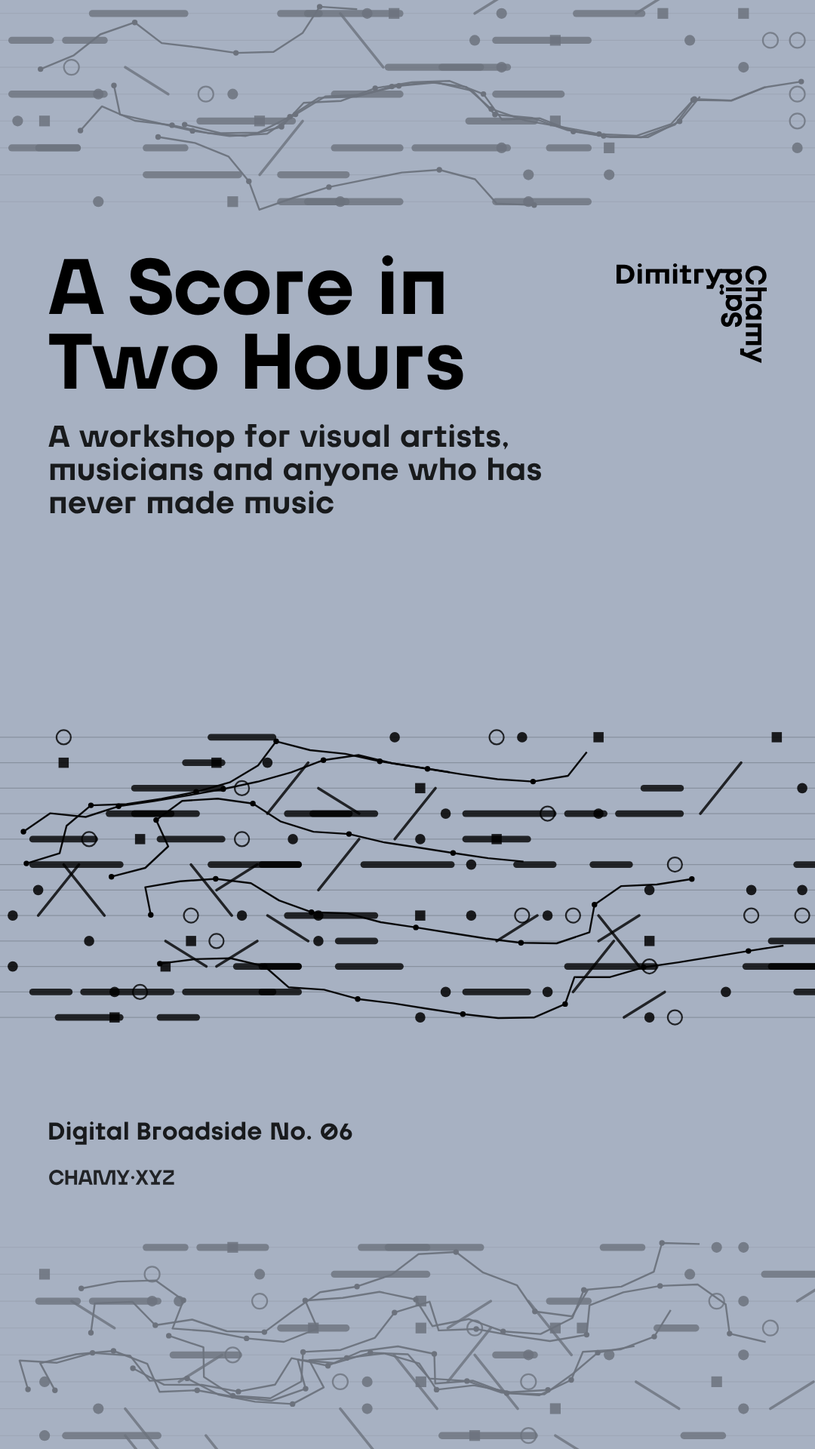
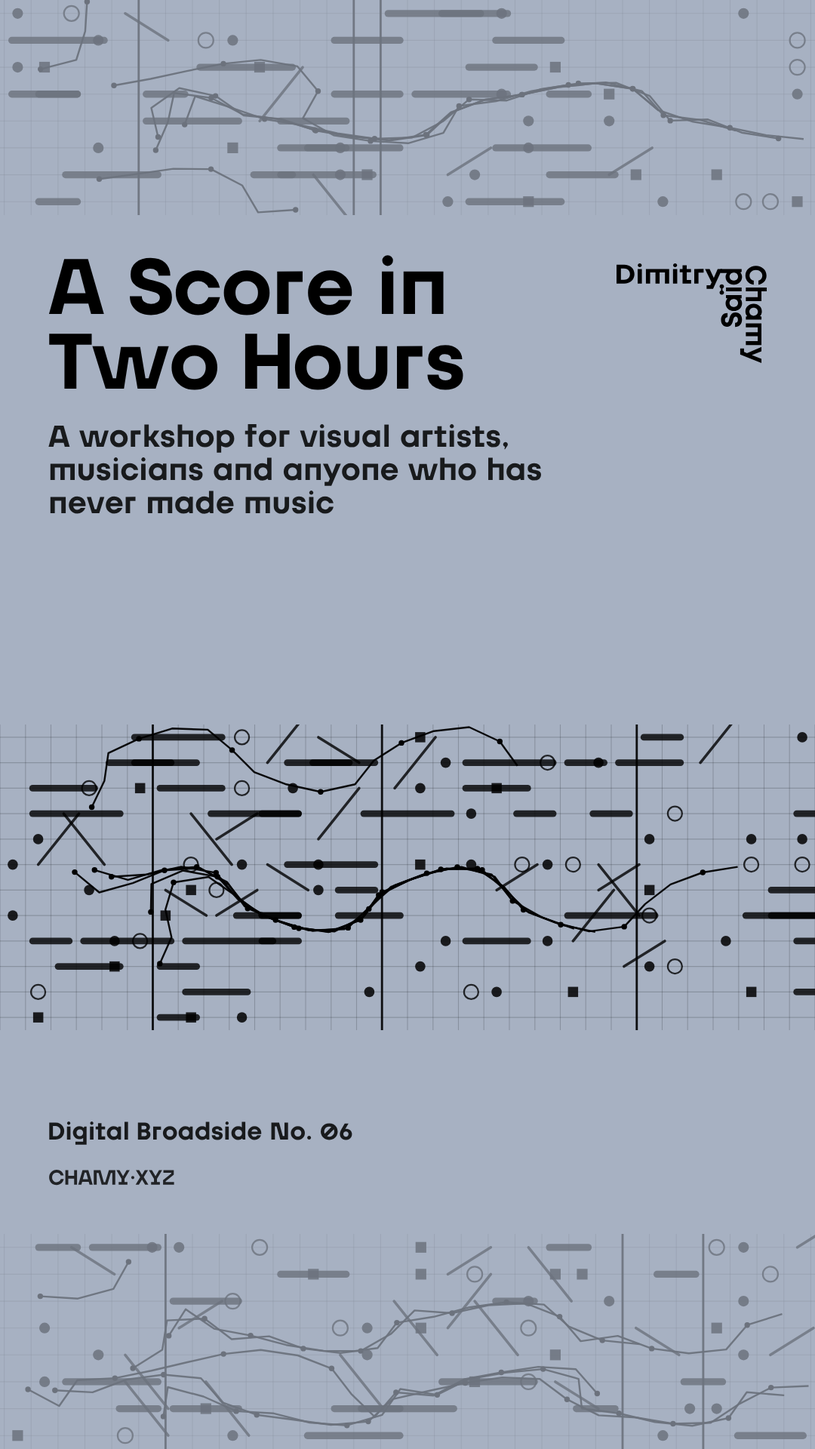
Release A Score in Two Hours v5 from 2urn/codex@3bb037c

diff --git a/score-in-two-hours/index.html b/score-in-two-hours/index.html
@@ -1,5 +1,5 @@
 <!doctype html><html><head><meta charset=utf8><meta name=viewport content="width=device-width,initial-scale=1,viewport-fit=cover"><style>:root{color-scheme:light;box-sizing:border-box;padding-top:env(safe-area-inset-top,0px);padding-bottom:env(safe-area-inset-bottom,0px)}html{scroll-padding-top:env(safe-area-inset-top,0px)}body{margin:0;padding:0;font:14px -apple-system,BlinkMacSystemFont,sans-serif;background:#fff;color:#000}img{max-width:100%}[hidden]:not([hidden=until-found i]){display:none!important}</style><title>A Score in Two Hours</title><meta name="description" content="A two-hour workshop for visual artists, musicians and people who have never made music: read a picture that plays, then make a score and play it together. Digital Broadside No. 06, with Battanboo."><link rel="canonical" href="https://works.chamy.xyz/score-in-two-hours/"><link rel="icon" type="image/png" href="./icon.png"><link rel="apple-touch-icon" href="./icon.png"><meta property="og:type" content="article"><meta property="og:site_name" content="CHAMY·XYZ"><meta property="og:title" content="A Score in Two Hours"><meta property="og:description" content="A two-hour workshop for visual artists, musicians and people who have never made music: read a picture that plays, then make a score and play it together. Digital Broadside No. 06, with Battanboo."><meta property="og:url" content="https://works.chamy.xyz/score-in-two-hours/"><meta property="og:image" content="https://works.chamy.xyz/score-in-two-hours/share.png"><meta property="og:image:width" content="1200"><meta property="og:image:height" content="630"><meta property="og:image:alt" content="A Score in Two Hours: A workshop for visual artists, musicians and anyone who has never made music"><meta name="twitter:card" content="summary_large_image"><meta name="twitter:title" content="A Score in Two Hours"><meta name="twitter:description" content="A two-hour workshop for visual artists, musicians and people who have never made music: read a picture that plays, then make a score and play it together. Digital Broadside No. 06, with Battanboo."><meta name="twitter:image" content="https://works.chamy.xyz/score-in-two-hours/share.png"></head><body>
-<meta charset="utf-8"><meta name="viewport" content="width=device-width,initial-scale=1,viewport-fit=cover"><title>A Score in Two Hours</title><meta name="codex" content="1.3.1"><meta name="codex-doc" content="score-in-two-hours@4"><style>/* ── THE CHAMY·XYZ FOUNDATION ──────────────────────────────────────────────
+<meta charset="utf-8"><meta name="viewport" content="width=device-width,initial-scale=1,viewport-fit=cover"><title>A Score in Two Hours</title><meta name="codex" content="1.3.1"><meta name="codex-doc" content="score-in-two-hours@5"><style>/* ── THE CHAMY·XYZ FOUNDATION ──────────────────────────────────────────────
    One unit, and everything measured from it. The unit is the x-height of the
    namemark — the height of the m in Chamy — so the rules given by hand until
    now (a logo's capitals as tall as that x-height, a sign as tall as a
@@ -881,7 +881,7 @@ html body{background-color:transparent}
 .bp-frame:has(.bp-s-title){background:var(--bs-acc)}
 </style>
 <style>:root{--bs-acc:#a7b1c2;--bs-ink:#000000}:root{--bs-swap:0s}@media (prefers-color-scheme:dark){:root:not([data-theme="light"]){--bs-swap:0.202s}}:root[data-theme="dark"]{--bs-swap:0.202s}:root[data-theme="light"]{--bs-swap:0s}</style>
-<div id="bsCover" aria-hidden="true" data-present-cover><svg viewBox="0 0 1600 1000" preserveAspectRatio="xMidYMid slice" aria-hidden="true" focusable="false"><g transform="translate(0,600)"><line x1="0" y1="16.7" x2="1600.0" y2="16.7" stroke="#000000" stroke-width="0.80" stroke-opacity=".18"/><line x1="0" y1="50.0" x2="1600.0" y2="50.0" stroke="#000000" stroke-width="0.80" stroke-opacity=".18"/><line x1="0" y1="83.3" x2="1600.0" y2="83.3" stroke="#000000" stroke-width="0.80" stroke-opacity=".18"/><line x1="0" y1="116.7" x2="1600.0" y2="116.7" stroke="#000000" stroke-width="0.80" stroke-opacity=".18"/><line x1="0" y1="150.0" x2="1600.0" y2="150.0" stroke="#000000" stroke-width="0.80" stroke-opacity=".18"/><line x1="0" y1="183.3" x2="1600.0" y2="183.3" stroke="#000000" stroke-width="0.80" stroke-opacity=".18"/><line x1="0" y1="216.7" x2="1600.0" y2="216.7" stroke="#000000" stroke-width="0.80" stroke-opacity=".18"/><line x1="0" y1="250.0" x2="1600.0" y2="250.0" stroke="#000000" stroke-width="0.80" stroke-opacity=".18"/><line x1="0" y1="283.3" x2="1600.0" y2="283.3" stroke="#000000" stroke-width="0.80" stroke-opacity=".18"/><circle cx="33.3" cy="250.0" r="6.7" fill="#000000" fill-opacity=".85"/><circle cx="66.7" cy="16.7" r="6.7" fill="#000000" fill-opacity=".85"/><rect x="55.0" y="245.7" width="90.0" height="8.7" rx="4.3" fill="#000000" fill-opacity=".8"/><rect x="55.0" y="279.0" width="123.3" height="8.7" rx="4.3" fill="#000000" fill-opacity=".8"/><circle cx="100.0" cy="16.7" r="6.7" fill="#000000" fill-opacity=".85"/><line x1="100.0" y1="50.0" x2="153.3" y2="-16.7" stroke="#000000" stroke-width="2.56" stroke-linecap="round" stroke-opacity=".8"/><rect x="88.3" y="145.7" width="56.7" height="8.7" rx="4.3" fill="#000000" fill-opacity=".8"/><circle cx="100.0" cy="216.7" r="9.3" fill="none" stroke="#000000" stroke-width="1.60" stroke-opacity=".8"/><rect x="93.3" y="243.3" width="13.3" height="13.3" fill="#000000" fill-opacity=".85"/><line x1="133.3" y1="83.3" x2="186.7" y2="150.0" stroke="#000000" stroke-width="2.56" stroke-linecap="round" stroke-opacity=".8"/><rect x="121.7" y="279.0" width="90.0" height="8.7" rx="4.3" fill="#000000" fill-opacity=".8"/><circle cx="166.7" cy="150.0" r="9.3" fill="none" stroke="#000000" stroke-width="1.60" stroke-opacity=".8"/><circle cx="166.7" cy="283.3" r="6.7" fill="#000000" fill-opacity=".85"/><rect x="188.3" y="45.7" width="123.3" height="8.7" rx="4.3" fill="#000000" fill-opacity=".8"/><rect x="188.3" y="212.3" width="90.0" height="8.7" rx="4.3" fill="#000000" fill-opacity=".8"/><circle cx="233.3" cy="150.0" r="6.7" fill="#000000" fill-opacity=".85"/><rect x="226.7" y="176.7" width="13.3" height="13.3" fill="#000000" fill-opacity=".85"/><rect x="221.7" y="279.0" width="123.3" height="8.7" rx="4.3" fill="#000000" fill-opacity=".8"/><rect x="255.0" y="12.3" width="90.0" height="8.7" rx="4.3" fill="#000000" fill-opacity=".8"/><rect x="260.0" y="43.3" width="13.3" height="13.3" fill="#000000" fill-opacity=".85"/><circle cx="266.7" cy="250.0" r="9.3" fill="none" stroke="#000000" stroke-width="1.60" stroke-opacity=".8"/><rect x="288.3" y="145.7" width="90.0" height="8.7" rx="4.3" fill="#000000" fill-opacity=".8"/><line x1="300.0" y1="283.3" x2="353.3" y2="316.7" stroke="#000000" stroke-width="2.56" stroke-linecap="round" stroke-opacity=".8"/><rect x="326.7" y="10.0" width="13.3" height="13.3" fill="#000000" fill-opacity=".85"/><rect x="321.7" y="79.0" width="56.7" height="8.7" rx="4.3" fill="#000000" fill-opacity=".8"/><rect x="321.7" y="145.7" width="56.7" height="8.7" rx="4.3" fill="#000000" fill-opacity=".8"/><line x1="333.3" y1="283.3" x2="386.7" y2="350.0" stroke="#000000" stroke-width="2.56" stroke-linecap="round" stroke-opacity=".8"/><circle cx="366.7" cy="50.0" r="9.3" fill="none" stroke="#000000" stroke-width="1.60" stroke-opacity=".8"/><rect x="360.0" y="76.7" width="13.3" height="13.3" fill="#000000" fill-opacity=".85"/><rect x="355.0" y="145.7" width="123.3" height="8.7" rx="4.3" fill="#000000" fill-opacity=".8"/><rect x="355.0" y="212.3" width="90.0" height="8.7" rx="4.3" fill="#000000" fill-opacity=".8"/><rect x="360.0" y="243.3" width="13.3" height="13.3" fill="#000000" fill-opacity=".85"/><rect x="388.3" y="79.0" width="123.3" height="8.7" rx="4.3" fill="#000000" fill-opacity=".8"/><line x1="400.0" y1="116.7" x2="453.3" y2="83.3" stroke="#000000" stroke-width="2.56" stroke-linecap="round" stroke-opacity=".8"/><circle cx="400.0" cy="183.3" r="9.3" fill="none" stroke="#000000" stroke-width="1.60" stroke-opacity=".8"/><line x1="400.0" y1="216.7" x2="453.3" y2="183.3" stroke="#000000" stroke-width="2.56" stroke-linecap="round" stroke-opacity=".8"/><circle cx="433.3" cy="83.3" r="9.3" fill="none" stroke="#000000" stroke-width="1.60" stroke-opacity=".8"/><circle cx="433.3" cy="150.0" r="9.3" fill="none" stroke="#000000" stroke-width="1.60" stroke-opacity=".8"/><circle cx="433.3" cy="250.0" r="6.7" fill="#000000" fill-opacity=".85"/><rect x="455.0" y="12.3" width="90.0" height="8.7" rx="4.3" fill="#000000" fill-opacity=".8"/><circle cx="466.7" cy="150.0" r="6.7" fill="#000000" fill-opacity=".85"/><line x1="466.7" y1="216.7" x2="520.0" y2="150.0" stroke="#000000" stroke-width="2.56" stroke-linecap="round" stroke-opacity=".8"/><rect x="455.0" y="279.0" width="56.7" height="8.7" rx="4.3" fill="#000000" fill-opacity=".8"/><line x1="500.0" y1="50.0" x2="553.3" y2="83.3" stroke="#000000" stroke-width="2.56" stroke-linecap="round" stroke-opacity=".8"/><rect x="488.3" y="112.3" width="56.7" height="8.7" rx="4.3" fill="#000000" fill-opacity=".8"/><rect x="488.3" y="145.7" width="56.7" height="8.7" rx="4.3" fill="#000000" fill-opacity=".8"/><rect x="521.7" y="12.3" width="90.0" height="8.7" rx="4.3" fill="#000000" fill-opacity=".8"/><circle cx="533.3" cy="50.0" r="6.7" fill="#000000" fill-opacity=".85"/><rect x="521.7" y="145.7" width="123.3" height="8.7" rx="4.3" fill="#000000" fill-opacity=".8"/><line x1="566.7" y1="83.3" x2="620.0" y2="116.7" stroke="#000000" stroke-width="2.56" stroke-linecap="round" stroke-opacity=".8"/><rect x="555.0" y="112.3" width="90.0" height="8.7" rx="4.3" fill="#000000" fill-opacity=".8"/><line x1="566.7" y1="216.7" x2="620.0" y2="150.0" stroke="#000000" stroke-width="2.56" stroke-linecap="round" stroke-opacity=".8"/><circle cx="566.7" cy="250.0" r="6.7" fill="#000000" fill-opacity=".85"/><circle cx="566.7" cy="283.3" r="6.7" fill="#000000" fill-opacity=".85"/><rect x="621.7" y="79.0" width="56.7" height="8.7" rx="4.3" fill="#000000" fill-opacity=".8"/><rect x="621.7" y="112.3" width="90.0" height="8.7" rx="4.3" fill="#000000" fill-opacity=".8"/><rect x="655.0" y="79.0" width="123.3" height="8.7" rx="4.3" fill="#000000" fill-opacity=".8"/><circle cx="700.0" cy="16.7" r="6.7" fill="#000000" fill-opacity=".85"/><line x1="700.0" y1="150.0" x2="753.3" y2="83.3" stroke="#000000" stroke-width="2.56" stroke-linecap="round" stroke-opacity=".8"/><rect x="726.7" y="176.7" width="13.3" height="13.3" fill="#000000" fill-opacity=".85"/><circle cx="733.3" cy="250.0" r="6.7" fill="#000000" fill-opacity=".85"/><rect x="760.0" y="43.3" width="13.3" height="13.3" fill="#000000" fill-opacity=".85"/><circle cx="766.7" cy="183.3" r="6.7" fill="#000000" fill-opacity=".85"/><circle cx="800.0" cy="16.7" r="6.7" fill="#000000" fill-opacity=".85"/><circle cx="800.0" cy="250.0" r="6.7" fill="#000000" fill-opacity=".85"/><rect x="821.7" y="112.3" width="123.3" height="8.7" rx="4.3" fill="#000000" fill-opacity=".8"/><rect x="821.7" y="145.7" width="90.0" height="8.7" rx="4.3" fill="#000000" fill-opacity=".8"/><circle cx="833.3" cy="183.3" r="6.7" fill="#000000" fill-opacity=".85"/><circle cx="833.3" cy="250.0" r="6.7" fill="#000000" fill-opacity=".85"/><rect x="855.0" y="45.7" width="90.0" height="8.7" rx="4.3" fill="#000000" fill-opacity=".8"/><circle cx="866.7" cy="116.7" r="9.3" fill="none" stroke="#000000" stroke-width="1.60" stroke-opacity=".8"/><rect x="860.0" y="243.3" width="13.3" height="13.3" fill="#000000" fill-opacity=".85"/><line x1="900.0" y1="83.3" x2="953.3" y2="50.0" stroke="#000000" stroke-width="2.56" stroke-linecap="round" stroke-opacity=".8"/><circle cx="900.0" cy="216.7" r="6.7" fill="#000000" fill-opacity=".85"/><rect x="921.7" y="79.0" width="56.7" height="8.7" rx="4.3" fill="#000000" fill-opacity=".8"/><circle cx="933.3" cy="150.0" r="9.3" fill="none" stroke="#000000" stroke-width="1.60" stroke-opacity=".8"/><circle cx="966.7" cy="116.7" r="9.3" fill="none" stroke="#000000" stroke-width="1.60" stroke-opacity=".8"/><circle cx="966.7" cy="250.0" r="6.7" fill="#000000" fill-opacity=".85"/><circle cx="1000.0" cy="50.0" r="6.7" fill="#000000" fill-opacity=".85"/><rect x="988.3" y="212.3" width="56.7" height="8.7" rx="4.3" fill="#000000" fill-opacity=".8"/><circle cx="1033.3" cy="50.0" r="9.3" fill="none" stroke="#000000" stroke-width="1.60" stroke-opacity=".8"/><rect x="1021.7" y="112.3" width="123.3" height="8.7" rx="4.3" fill="#000000" fill-opacity=".8"/><line x1="1033.3" y1="150.0" x2="1086.7" y2="83.3" stroke="#000000" stroke-width="2.56" stroke-linecap="round" stroke-opacity=".8"/><rect x="1026.7" y="210.0" width="13.3" height="13.3" fill="#000000" fill-opacity=".85"/><circle cx="1066.7" cy="16.7" r="6.7" fill="#000000" fill-opacity=".85"/><rect x="1055.0" y="79.0" width="56.7" height="8.7" rx="4.3" fill="#000000" fill-opacity=".8"/><line x1="1066.7" y1="150.0" x2="1120.0" y2="216.7" stroke="#000000" stroke-width="2.56" stroke-linecap="round" stroke-opacity=".8"/><line x1="1066.7" y1="183.3" x2="1120.0" y2="150.0" stroke="#000000" stroke-width="2.56" stroke-linecap="round" stroke-opacity=".8"/><rect x="1088.3" y="112.3" width="90.0" height="8.7" rx="4.3" fill="#000000" fill-opacity=".8"/><line x1="1133.3" y1="83.3" x2="1186.7" y2="50.0" stroke="#000000" stroke-width="2.56" stroke-linecap="round" stroke-opacity=".8"/><rect x="1121.7" y="179.0" width="56.7" height="8.7" rx="4.3" fill="#000000" fill-opacity=".8"/><circle cx="1166.7" cy="16.7" r="6.7" fill="#000000" fill-opacity=".85"/><rect x="1160.0" y="76.7" width="13.3" height="13.3" fill="#000000" fill-opacity=".85"/><circle cx="1166.7" cy="116.7" r="9.3" fill="none" stroke="#000000" stroke-width="1.60" stroke-opacity=".8"/><circle cx="1166.7" cy="183.3" r="6.7" fill="#000000" fill-opacity=".85"/><circle cx="1200.0" cy="83.3" r="9.3" fill="none" stroke="#000000" stroke-width="1.60" stroke-opacity=".8"/><circle cx="1200.0" cy="283.3" r="9.3" fill="none" stroke="#000000" stroke-width="1.60" stroke-opacity=".8"/><line x1="1233.3" y1="116.7" x2="1286.7" y2="50.0" stroke="#000000" stroke-width="2.56" stroke-linecap="round" stroke-opacity=".8"/><circle cx="1300.0" cy="150.0" r="6.7" fill="#000000" fill-opacity=".85"/><circle cx="1333.3" cy="116.7" r="6.7" fill="#000000" fill-opacity=".85"/><circle cx="1333.3" cy="150.0" r="9.3" fill="none" stroke="#000000" stroke-width="1.60" stroke-opacity=".8"/><rect x="1321.7" y="212.3" width="123.3" height="8.7" rx="4.3" fill="#000000" fill-opacity=".8"/><rect x="1360.0" y="10.0" width="13.3" height="13.3" fill="#000000" fill-opacity=".85"/><rect x="1355.0" y="279.0" width="90.0" height="8.7" rx="4.3" fill="#000000" fill-opacity=".8"/><rect x="1388.3" y="12.3" width="123.3" height="8.7" rx="4.3" fill="#000000" fill-opacity=".8"/><circle cx="1400.0" cy="183.3" r="6.7" fill="#000000" fill-opacity=".85"/><rect x="1388.3" y="279.0" width="123.3" height="8.7" rx="4.3" fill="#000000" fill-opacity=".8"/><circle cx="1433.3" cy="16.7" r="6.7" fill="#000000" fill-opacity=".85"/><circle cx="1433.3" cy="50.0" r="9.3" fill="none" stroke="#000000" stroke-width="1.60" stroke-opacity=".8"/><rect x="1421.7" y="145.7" width="123.3" height="8.7" rx="4.3" fill="#000000" fill-opacity=".8"/><rect x="1421.7" y="212.3" width="90.0" height="8.7" rx="4.3" fill="#000000" fill-opacity=".8"/><circle cx="1466.7" cy="16.7" r="6.7" fill="#000000" fill-opacity=".85"/><circle cx="1466.7" cy="83.3" r="6.7" fill="#000000" fill-opacity=".85"/><rect x="1455.0" y="245.7" width="90.0" height="8.7" rx="4.3" fill="#000000" fill-opacity=".8"/><line x1="1500.0" y1="16.7" x2="1553.3" y2="83.3" stroke="#000000" stroke-width="2.56" stroke-linecap="round" stroke-opacity=".8"/><circle cx="1500.0" cy="116.7" r="6.7" fill="#000000" fill-opacity=".85"/><rect x="1526.7" y="10.0" width="13.3" height="13.3" fill="#000000" fill-opacity=".85"/><rect x="1521.7" y="79.0" width="90.0" height="8.7" rx="4.3" fill="#000000" fill-opacity=".8"/><circle cx="1533.3" cy="183.3" r="6.7" fill="#000000" fill-opacity=".85"/><circle cx="1533.3" cy="216.7" r="6.7" fill="#000000" fill-opacity=".85"/><line x1="1566.7" y1="83.3" x2="1620.0" y2="16.7" stroke="#000000" stroke-width="2.56" stroke-linecap="round" stroke-opacity=".8"/><rect x="1555.0" y="145.7" width="56.7" height="8.7" rx="4.3" fill="#000000" fill-opacity=".8"/><circle cx="1566.7" cy="250.0" r="9.3" fill="none" stroke="#000000" stroke-width="1.60" stroke-opacity=".8"/><path d="M296.3,185.3 L338.7,169.9 L384.8,164.3 L430.2,155.9 L474.8,144.9 L515.1,126.4 L550.7,102.7 L582.5,129.5 L629.2,130.2 L674.7,138.3 L717.9,152.1 L747.5,180.4 L776.6,209.1 L803.2,178.9 L848.1,188.7 L882.4,163.8 L927.8,155.3" fill="none" stroke="#000000" stroke-width="1.76" stroke-linejoin="round" stroke-opacity=".95"/><circle cx="296.3" cy="185.3" r="2.7" fill="#000000"/><circle cx="430.2" cy="155.9" r="2.7" fill="#000000"/><circle cx="550.7" cy="102.7" r="2.7" fill="#000000"/><circle cx="674.7" cy="138.3" r="2.7" fill="#000000"/><circle cx="776.6" cy="209.1" r="2.7" fill="#000000"/><circle cx="882.4" cy="163.8" r="2.7" fill="#000000"/><path d="M65.9,69.9 L71.2,106.4 L95.4,137.7 L137.0,154.4 L146.6,190.2 L175.0,219.3 L221.4,215.3 L254.9,189.8 L299.8,179.7 L345.9,173.9 L391.3,165.7 L437.3,159.1 L483.8,156.4 L528.1,167.8 L542.8,202.7 L588.7,196.1 L627.8,216.2 L673.0,225.2 L713.7,243.0 L726.7,278.3 L770.9,290.0" fill="none" stroke="#000000" stroke-width="1.76" stroke-linejoin="round" stroke-opacity=".95"/><circle cx="65.9" cy="69.9" r="2.7" fill="#000000"/><circle cx="137.0" cy="154.4" r="2.7" fill="#000000"/><circle cx="221.4" cy="215.3" r="2.7" fill="#000000"/><circle cx="345.9" cy="173.9" r="2.7" fill="#000000"/><circle cx="483.8" cy="156.4" r="2.7" fill="#000000"/><circle cx="588.7" cy="196.1" r="2.7" fill="#000000"/><circle cx="713.7" cy="243.0" r="2.7" fill="#000000"/><path d="M166.7,147.3 L203.3,170.1 L219.2,204.6 L256.3,182.3 L302.2,188.6 L338.0,165.0 L383.8,157.9 L425.2,141.1 L438.2,105.9 L473.3,81.6 L513.2,100.7 L553.9,118.5 L600.4,115.6 L643.1,130.4 L688.6,138.6 L733.2,149.5" fill="none" stroke="#000000" stroke-width="1.76" stroke-linejoin="round" stroke-opacity=".95"/><circle cx="166.7" cy="147.3" r="2.7" fill="#000000"/><circle cx="256.3" cy="182.3" r="2.7" fill="#000000"/><circle cx="383.8" cy="157.9" r="2.7" fill="#000000"/><circle cx="473.3" cy="81.6" r="2.7" fill="#000000"/><circle cx="600.4" cy="115.6" r="2.7" fill="#000000"/><circle cx="733.2" cy="149.5" r="2.7" fill="#000000"/><path d="M78.0,86.9 L59.9,120.7 L105.5,128.4 L151.3,135.5 L197.5,140.6 L244.0,137.4 L275.4,110.4 L305.9,82.6 L352.5,83.8 L398.3,76.8 L443.4,67.2 L485.9,52.2 L516.9,24.7 L563.6,24.1 L603.4,43.2 L649.7,47.9" fill="none" stroke="#000000" stroke-width="1.76" stroke-linejoin="round" stroke-opacity=".95"/><circle cx="78.0" cy="86.9" r="2.7" fill="#000000"/><circle cx="151.3" cy="135.5" r="2.7" fill="#000000"/><circle cx="275.4" cy="110.4" r="2.7" fill="#000000"/><circle cx="398.3" cy="76.8" r="2.7" fill="#000000"/><circle cx="516.9" cy="24.7" r="2.7" fill="#000000"/><circle cx="649.7" cy="47.9" r="2.7" fill="#000000"/><path d="M226.3,218.0 L259.9,192.5 L300.4,174.3 L347.0,175.4 L392.0,165.7 L438.0,159.3 L484.6,157.1 L528.2,170.0 L542.6,204.9 L587.7,195.4 L625.7,216.7 L670.8,225.9 L710.3,245.5 L716.7,281.8 L762.3,289.5" fill="none" stroke="#000000" stroke-width="1.76" stroke-linejoin="round" stroke-opacity=".95"/><circle cx="226.3" cy="218.0" r="2.7" fill="#000000"/><circle cx="347.0" cy="175.4" r="2.7" fill="#000000"/><circle cx="484.6" cy="157.1" r="2.7" fill="#000000"/><circle cx="587.7" cy="195.4" r="2.7" fill="#000000"/><circle cx="710.3" cy="245.5" r="2.7" fill="#000000"/><path d="M265.2,82.7 L307.4,98.3 L350.5,84.3 L396.3,77.5 L441.6,68.5 L485.2,55.5 L521.4,32.3 L564.6,18.4 L592.3,47.9 L638.5,53.2 L680.0,70.0 L689.3,105.9 L719.0,134.2 L765.1,128.5 L796.6,101.4 L843.2,99.9 L885.4,84.3 L931.4,78.0 L976.5,68.7 L1019.4,54.2 L1050.4,26.8 L1095.7,18.0" fill="none" stroke="#000000" stroke-width="1.76" stroke-linejoin="round" stroke-opacity=".95"/><circle cx="265.2" cy="82.7" r="2.7" fill="#000000"/><circle cx="396.3" cy="77.5" r="2.7" fill="#000000"/><circle cx="521.4" cy="32.3" r="2.7" fill="#000000"/><circle cx="638.5" cy="53.2" r="2.7" fill="#000000"/><circle cx="719.0" cy="134.2" r="2.7" fill="#000000"/><circle cx="843.2" cy="99.9" r="2.7" fill="#000000"/><circle cx="976.5" cy="68.7" r="2.7" fill="#000000"/><circle cx="1095.7" cy="18.0" r="2.7" fill="#000000"/></g></svg></div>
+<div id="bsCover" aria-hidden="true" data-present-cover><svg viewBox="0 0 1600 1000" preserveAspectRatio="xMidYMid slice" aria-hidden="true" focusable="false"><g transform="translate(0,600)"><line x1="0" y1="16.7" x2="1600.0" y2="16.7" stroke="#000000" stroke-width="0.80" stroke-opacity=".18"/><line x1="0" y1="50.0" x2="1600.0" y2="50.0" stroke="#000000" stroke-width="0.80" stroke-opacity=".18"/><line x1="0" y1="83.3" x2="1600.0" y2="83.3" stroke="#000000" stroke-width="0.80" stroke-opacity=".18"/><line x1="0" y1="116.7" x2="1600.0" y2="116.7" stroke="#000000" stroke-width="0.80" stroke-opacity=".18"/><line x1="0" y1="150.0" x2="1600.0" y2="150.0" stroke="#000000" stroke-width="0.80" stroke-opacity=".18"/><line x1="0" y1="183.3" x2="1600.0" y2="183.3" stroke="#000000" stroke-width="0.80" stroke-opacity=".18"/><line x1="0" y1="216.7" x2="1600.0" y2="216.7" stroke="#000000" stroke-width="0.80" stroke-opacity=".18"/><line x1="0" y1="250.0" x2="1600.0" y2="250.0" stroke="#000000" stroke-width="0.80" stroke-opacity=".18"/><line x1="0" y1="283.3" x2="1600.0" y2="283.3" stroke="#000000" stroke-width="0.80" stroke-opacity=".18"/><line x1="16.7" y1="0" x2="16.7" y2="300.0" stroke="#000000" stroke-width="0.80" stroke-opacity=".18"/><line x1="50.0" y1="0" x2="50.0" y2="300.0" stroke="#000000" stroke-width="0.80" stroke-opacity=".18"/><line x1="83.3" y1="0" x2="83.3" y2="300.0" stroke="#000000" stroke-width="0.80" stroke-opacity=".18"/><line x1="116.7" y1="0" x2="116.7" y2="300.0" stroke="#000000" stroke-width="0.80" stroke-opacity=".18"/><line x1="150.0" y1="0" x2="150.0" y2="300.0" stroke="#000000" stroke-width="0.80" stroke-opacity=".18"/><line x1="183.3" y1="0" x2="183.3" y2="300.0" stroke="#000000" stroke-width="0.80" stroke-opacity=".18"/><line x1="216.7" y1="0" x2="216.7" y2="300.0" stroke="#000000" stroke-width="0.80" stroke-opacity=".18"/><line x1="250.0" y1="0" x2="250.0" y2="300.0" stroke="#000000" stroke-width="0.80" stroke-opacity=".18"/><line x1="283.3" y1="0" x2="283.3" y2="300.0" stroke="#000000" stroke-width="0.80" stroke-opacity=".18"/><line x1="316.7" y1="0" x2="316.7" y2="300.0" stroke="#000000" stroke-width="0.80" stroke-opacity=".18"/><line x1="350.0" y1="0" x2="350.0" y2="300.0" stroke="#000000" stroke-width="0.80" stroke-opacity=".18"/><line x1="383.3" y1="0" x2="383.3" y2="300.0" stroke="#000000" stroke-width="0.80" stroke-opacity=".18"/><line x1="416.7" y1="0" x2="416.7" y2="300.0" stroke="#000000" stroke-width="0.80" stroke-opacity=".18"/><line x1="450.0" y1="0" x2="450.0" y2="300.0" stroke="#000000" stroke-width="0.80" stroke-opacity=".18"/><line x1="483.3" y1="0" x2="483.3" y2="300.0" stroke="#000000" stroke-width="0.80" stroke-opacity=".18"/><line x1="516.7" y1="0" x2="516.7" y2="300.0" stroke="#000000" stroke-width="0.80" stroke-opacity=".18"/><line x1="550.0" y1="0" x2="550.0" y2="300.0" stroke="#000000" stroke-width="0.80" stroke-opacity=".18"/><line x1="583.3" y1="0" x2="583.3" y2="300.0" stroke="#000000" stroke-width="0.80" stroke-opacity=".18"/><line x1="616.7" y1="0" x2="616.7" y2="300.0" stroke="#000000" stroke-width="0.80" stroke-opacity=".18"/><line x1="650.0" y1="0" x2="650.0" y2="300.0" stroke="#000000" stroke-width="0.80" stroke-opacity=".18"/><line x1="683.3" y1="0" x2="683.3" y2="300.0" stroke="#000000" stroke-width="0.80" stroke-opacity=".18"/><line x1="716.7" y1="0" x2="716.7" y2="300.0" stroke="#000000" stroke-width="0.80" stroke-opacity=".18"/><line x1="750.0" y1="0" x2="750.0" y2="300.0" stroke="#000000" stroke-width="0.80" stroke-opacity=".18"/><line x1="783.3" y1="0" x2="783.3" y2="300.0" stroke="#000000" stroke-width="0.80" stroke-opacity=".18"/><line x1="816.7" y1="0" x2="816.7" y2="300.0" stroke="#000000" stroke-width="0.80" stroke-opacity=".18"/><line x1="850.0" y1="0" x2="850.0" y2="300.0" stroke="#000000" stroke-width="0.80" stroke-opacity=".18"/><line x1="883.3" y1="0" x2="883.3" y2="300.0" stroke="#000000" stroke-width="0.80" stroke-opacity=".18"/><line x1="916.7" y1="0" x2="916.7" y2="300.0" stroke="#000000" stroke-width="0.80" stroke-opacity=".18"/><line x1="950.0" y1="0" x2="950.0" y2="300.0" stroke="#000000" stroke-width="0.80" stroke-opacity=".18"/><line x1="983.3" y1="0" x2="983.3" y2="300.0" stroke="#000000" stroke-width="0.80" stroke-opacity=".18"/><line x1="1016.7" y1="0" x2="1016.7" y2="300.0" stroke="#000000" stroke-width="0.80" stroke-opacity=".18"/><line x1="1050.0" y1="0" x2="1050.0" y2="300.0" stroke="#000000" stroke-width="0.80" stroke-opacity=".18"/><line x1="1083.3" y1="0" x2="1083.3" y2="300.0" stroke="#000000" stroke-width="0.80" stroke-opacity=".18"/><line x1="1116.7" y1="0" x2="1116.7" y2="300.0" stroke="#000000" stroke-width="0.80" stroke-opacity=".18"/><line x1="1150.0" y1="0" x2="1150.0" y2="300.0" stroke="#000000" stroke-width="0.80" stroke-opacity=".18"/><line x1="1183.3" y1="0" x2="1183.3" y2="300.0" stroke="#000000" stroke-width="0.80" stroke-opacity=".18"/><line x1="1216.7" y1="0" x2="1216.7" y2="300.0" stroke="#000000" stroke-width="0.80" stroke-opacity=".18"/><line x1="1250.0" y1="0" x2="1250.0" y2="300.0" stroke="#000000" stroke-width="0.80" stroke-opacity=".18"/><line x1="1283.3" y1="0" x2="1283.3" y2="300.0" stroke="#000000" stroke-width="0.80" stroke-opacity=".18"/><line x1="1316.7" y1="0" x2="1316.7" y2="300.0" stroke="#000000" stroke-width="0.80" stroke-opacity=".18"/><line x1="1350.0" y1="0" x2="1350.0" y2="300.0" stroke="#000000" stroke-width="0.80" stroke-opacity=".18"/><line x1="1383.3" y1="0" x2="1383.3" y2="300.0" stroke="#000000" stroke-width="0.80" stroke-opacity=".18"/><line x1="1416.7" y1="0" x2="1416.7" y2="300.0" stroke="#000000" stroke-width="0.80" stroke-opacity=".18"/><line x1="1450.0" y1="0" x2="1450.0" y2="300.0" stroke="#000000" stroke-width="0.80" stroke-opacity=".18"/><line x1="1483.3" y1="0" x2="1483.3" y2="300.0" stroke="#000000" stroke-width="0.80" stroke-opacity=".18"/><line x1="1516.7" y1="0" x2="1516.7" y2="300.0" stroke="#000000" stroke-width="0.80" stroke-opacity=".18"/><line x1="1550.0" y1="0" x2="1550.0" y2="300.0" stroke="#000000" stroke-width="0.80" stroke-opacity=".18"/><line x1="1583.3" y1="0" x2="1583.3" y2="300.0" stroke="#000000" stroke-width="0.80" stroke-opacity=".18"/><line x1="350.0" y1="0" x2="350.0" y2="300.0" stroke="#000000" stroke-width="2.08" stroke-opacity=".9"/><line x1="983.3" y1="0" x2="983.3" y2="300.0" stroke="#000000" stroke-width="2.08" stroke-opacity=".9"/><line x1="1450.0" y1="0" x2="1450.0" y2="300.0" stroke="#000000" stroke-width="2.08" stroke-opacity=".9"/><circle cx="33.3" cy="16.7" r="9.3" fill="none" stroke="#000000" stroke-width="1.60" stroke-opacity=".8"/><circle cx="33.3" cy="150.0" r="6.7" fill="#000000" fill-opacity=".85"/><circle cx="33.3" cy="216.7" r="6.7" fill="#000000" fill-opacity=".85"/><rect x="55.0" y="145.7" width="90.0" height="8.7" rx="4.3" fill="#000000" fill-opacity=".8"/><rect x="55.0" y="179.0" width="123.3" height="8.7" rx="4.3" fill="#000000" fill-opacity=".8"/><circle cx="66.7" cy="216.7" r="6.7" fill="#000000" fill-opacity=".85"/><line x1="66.7" y1="250.0" x2="120.0" y2="183.3" stroke="#000000" stroke-width="2.56" stroke-linecap="round" stroke-opacity=".8"/><rect x="88.3" y="45.7" width="56.7" height="8.7" rx="4.3" fill="#000000" fill-opacity=".8"/><circle cx="100.0" cy="116.7" r="9.3" fill="none" stroke="#000000" stroke-width="1.60" stroke-opacity=".8"/><rect x="93.3" y="143.3" width="13.3" height="13.3" fill="#000000" fill-opacity=".85"/><line x1="100.0" y1="283.3" x2="153.3" y2="350.0" stroke="#000000" stroke-width="2.56" stroke-linecap="round" stroke-opacity=".8"/><rect x="121.7" y="179.0" width="90.0" height="8.7" rx="4.3" fill="#000000" fill-opacity=".8"/><circle cx="166.7" cy="50.0" r="9.3" fill="none" stroke="#000000" stroke-width="1.60" stroke-opacity=".8"/><circle cx="166.7" cy="183.3" r="6.7" fill="#000000" fill-opacity=".85"/><rect x="155.0" y="245.7" width="123.3" height="8.7" rx="4.3" fill="#000000" fill-opacity=".8"/><rect x="188.3" y="112.3" width="90.0" height="8.7" rx="4.3" fill="#000000" fill-opacity=".8"/><circle cx="233.3" cy="50.0" r="6.7" fill="#000000" fill-opacity=".85"/><rect x="226.7" y="76.7" width="13.3" height="13.3" fill="#000000" fill-opacity=".85"/><rect x="221.7" y="179.0" width="123.3" height="8.7" rx="4.3" fill="#000000" fill-opacity=".8"/><rect x="221.7" y="212.3" width="90.0" height="8.7" rx="4.3" fill="#000000" fill-opacity=".8"/><rect x="226.7" y="243.3" width="13.3" height="13.3" fill="#000000" fill-opacity=".85"/><circle cx="266.7" cy="150.0" r="9.3" fill="none" stroke="#000000" stroke-width="1.60" stroke-opacity=".8"/><rect x="288.3" y="45.7" width="90.0" height="8.7" rx="4.3" fill="#000000" fill-opacity=".8"/><line x1="300.0" y1="183.3" x2="353.3" y2="216.7" stroke="#000000" stroke-width="2.56" stroke-linecap="round" stroke-opacity=".8"/><rect x="293.3" y="210.0" width="13.3" height="13.3" fill="#000000" fill-opacity=".85"/><rect x="288.3" y="279.0" width="56.7" height="8.7" rx="4.3" fill="#000000" fill-opacity=".8"/><rect x="321.7" y="45.7" width="56.7" height="8.7" rx="4.3" fill="#000000" fill-opacity=".8"/><line x1="333.3" y1="183.3" x2="386.7" y2="250.0" stroke="#000000" stroke-width="2.56" stroke-linecap="round" stroke-opacity=".8"/><circle cx="333.3" cy="250.0" r="9.3" fill="none" stroke="#000000" stroke-width="1.60" stroke-opacity=".8"/><rect x="326.7" y="276.7" width="13.3" height="13.3" fill="#000000" fill-opacity=".85"/><rect x="355.0" y="45.7" width="123.3" height="8.7" rx="4.3" fill="#000000" fill-opacity=".8"/><rect x="355.0" y="112.3" width="90.0" height="8.7" rx="4.3" fill="#000000" fill-opacity=".8"/><rect x="360.0" y="143.3" width="13.3" height="13.3" fill="#000000" fill-opacity=".85"/><rect x="355.0" y="279.0" width="123.3" height="8.7" rx="4.3" fill="#000000" fill-opacity=".8"/><line x1="400.0" y1="16.7" x2="453.3" y2="-16.7" stroke="#000000" stroke-width="2.56" stroke-linecap="round" stroke-opacity=".8"/><circle cx="400.0" cy="83.3" r="9.3" fill="none" stroke="#000000" stroke-width="1.60" stroke-opacity=".8"/><line x1="400.0" y1="116.7" x2="453.3" y2="83.3" stroke="#000000" stroke-width="2.56" stroke-linecap="round" stroke-opacity=".8"/><circle cx="400.0" cy="283.3" r="9.3" fill="none" stroke="#000000" stroke-width="1.60" stroke-opacity=".8"/><circle cx="433.3" cy="50.0" r="9.3" fill="none" stroke="#000000" stroke-width="1.60" stroke-opacity=".8"/><circle cx="433.3" cy="150.0" r="6.7" fill="#000000" fill-opacity=".85"/><rect x="421.7" y="212.3" width="90.0" height="8.7" rx="4.3" fill="#000000" fill-opacity=".8"/><circle cx="466.7" cy="50.0" r="6.7" fill="#000000" fill-opacity=".85"/><line x1="466.7" y1="116.7" x2="520.0" y2="50.0" stroke="#000000" stroke-width="2.56" stroke-linecap="round" stroke-opacity=".8"/><rect x="455.0" y="179.0" width="56.7" height="8.7" rx="4.3" fill="#000000" fill-opacity=".8"/><line x1="466.7" y1="250.0" x2="520.0" y2="283.3" stroke="#000000" stroke-width="2.56" stroke-linecap="round" stroke-opacity=".8"/><rect x="488.3" y="12.3" width="56.7" height="8.7" rx="4.3" fill="#000000" fill-opacity=".8"/><rect x="488.3" y="45.7" width="56.7" height="8.7" rx="4.3" fill="#000000" fill-opacity=".8"/><rect x="488.3" y="212.3" width="90.0" height="8.7" rx="4.3" fill="#000000" fill-opacity=".8"/><circle cx="500.0" cy="250.0" r="6.7" fill="#000000" fill-opacity=".85"/><rect x="521.7" y="45.7" width="123.3" height="8.7" rx="4.3" fill="#000000" fill-opacity=".8"/><line x1="533.3" y1="283.3" x2="586.7" y2="316.7" stroke="#000000" stroke-width="2.56" stroke-linecap="round" stroke-opacity=".8"/><rect x="555.0" y="12.3" width="90.0" height="8.7" rx="4.3" fill="#000000" fill-opacity=".8"/><line x1="566.7" y1="116.7" x2="620.0" y2="50.0" stroke="#000000" stroke-width="2.56" stroke-linecap="round" stroke-opacity=".8"/><circle cx="566.7" cy="150.0" r="6.7" fill="#000000" fill-opacity=".85"/><circle cx="566.7" cy="183.3" r="6.7" fill="#000000" fill-opacity=".85"/><rect x="588.3" y="279.0" width="56.7" height="8.7" rx="4.3" fill="#000000" fill-opacity=".8"/><rect x="621.7" y="12.3" width="90.0" height="8.7" rx="4.3" fill="#000000" fill-opacity=".8"/><rect x="621.7" y="279.0" width="123.3" height="8.7" rx="4.3" fill="#000000" fill-opacity=".8"/><circle cx="666.7" cy="216.7" r="6.7" fill="#000000" fill-opacity=".85"/><line x1="700.0" y1="50.0" x2="753.3" y2="-16.7" stroke="#000000" stroke-width="2.56" stroke-linecap="round" stroke-opacity=".8"/><rect x="726.7" y="76.7" width="13.3" height="13.3" fill="#000000" fill-opacity=".85"/><circle cx="733.3" cy="150.0" r="6.7" fill="#000000" fill-opacity=".85"/><rect x="726.7" y="243.3" width="13.3" height="13.3" fill="#000000" fill-opacity=".85"/><circle cx="766.7" cy="83.3" r="6.7" fill="#000000" fill-opacity=".85"/><circle cx="766.7" cy="216.7" r="6.7" fill="#000000" fill-opacity=".85"/><circle cx="800.0" cy="150.0" r="6.7" fill="#000000" fill-opacity=".85"/><rect x="821.7" y="12.3" width="123.3" height="8.7" rx="4.3" fill="#000000" fill-opacity=".8"/><rect x="821.7" y="45.7" width="90.0" height="8.7" rx="4.3" fill="#000000" fill-opacity=".8"/><circle cx="833.3" cy="83.3" r="6.7" fill="#000000" fill-opacity=".85"/><circle cx="833.3" cy="150.0" r="6.7" fill="#000000" fill-opacity=".85"/><rect x="821.7" y="245.7" width="90.0" height="8.7" rx="4.3" fill="#000000" fill-opacity=".8"/><circle cx="866.7" cy="16.7" r="9.3" fill="none" stroke="#000000" stroke-width="1.60" stroke-opacity=".8"/><rect x="860.0" y="143.3" width="13.3" height="13.3" fill="#000000" fill-opacity=".85"/><line x1="866.7" y1="283.3" x2="920.0" y2="250.0" stroke="#000000" stroke-width="2.56" stroke-linecap="round" stroke-opacity=".8"/><circle cx="900.0" cy="116.7" r="6.7" fill="#000000" fill-opacity=".85"/><rect x="888.3" y="279.0" width="56.7" height="8.7" rx="4.3" fill="#000000" fill-opacity=".8"/><circle cx="933.3" cy="50.0" r="9.3" fill="none" stroke="#000000" stroke-width="1.60" stroke-opacity=".8"/><circle cx="966.7" cy="16.7" r="9.3" fill="none" stroke="#000000" stroke-width="1.60" stroke-opacity=".8"/><circle cx="966.7" cy="150.0" r="6.7" fill="#000000" fill-opacity=".85"/><circle cx="966.7" cy="250.0" r="6.7" fill="#000000" fill-opacity=".85"/><rect x="988.3" y="112.3" width="56.7" height="8.7" rx="4.3" fill="#000000" fill-opacity=".8"/><circle cx="1000.0" cy="250.0" r="9.3" fill="none" stroke="#000000" stroke-width="1.60" stroke-opacity=".8"/><rect x="1021.7" y="12.3" width="123.3" height="8.7" rx="4.3" fill="#000000" fill-opacity=".8"/><line x1="1033.3" y1="50.0" x2="1086.7" y2="-16.7" stroke="#000000" stroke-width="2.56" stroke-linecap="round" stroke-opacity=".8"/><rect x="1026.7" y="110.0" width="13.3" height="13.3" fill="#000000" fill-opacity=".85"/><circle cx="1033.3" cy="216.7" r="6.7" fill="#000000" fill-opacity=".85"/><rect x="1021.7" y="279.0" width="56.7" height="8.7" rx="4.3" fill="#000000" fill-opacity=".8"/><line x1="1066.7" y1="50.0" x2="1120.0" y2="116.7" stroke="#000000" stroke-width="2.56" stroke-linecap="round" stroke-opacity=".8"/><line x1="1066.7" y1="83.3" x2="1120.0" y2="50.0" stroke="#000000" stroke-width="2.56" stroke-linecap="round" stroke-opacity=".8"/><rect x="1088.3" y="12.3" width="90.0" height="8.7" rx="4.3" fill="#000000" fill-opacity=".8"/><line x1="1100.0" y1="283.3" x2="1153.3" y2="250.0" stroke="#000000" stroke-width="2.56" stroke-linecap="round" stroke-opacity=".8"/><rect x="1121.7" y="79.0" width="56.7" height="8.7" rx="4.3" fill="#000000" fill-opacity=".8"/><circle cx="1133.3" cy="216.7" r="6.7" fill="#000000" fill-opacity=".85"/><rect x="1126.7" y="276.7" width="13.3" height="13.3" fill="#000000" fill-opacity=".85"/><circle cx="1166.7" cy="16.7" r="9.3" fill="none" stroke="#000000" stroke-width="1.60" stroke-opacity=".8"/><circle cx="1166.7" cy="83.3" r="6.7" fill="#000000" fill-opacity=".85"/><circle cx="1166.7" cy="283.3" r="9.3" fill="none" stroke="#000000" stroke-width="1.60" stroke-opacity=".8"/><circle cx="1200.0" cy="183.3" r="9.3" fill="none" stroke="#000000" stroke-width="1.60" stroke-opacity=".8"/><line x1="1233.3" y1="16.7" x2="1286.7" y2="-50.0" stroke="#000000" stroke-width="2.56" stroke-linecap="round" stroke-opacity=".8"/><circle cx="1300.0" cy="50.0" r="6.7" fill="#000000" fill-opacity=".85"/><circle cx="1333.3" cy="16.7" r="6.7" fill="#000000" fill-opacity=".85"/><circle cx="1333.3" cy="50.0" r="9.3" fill="none" stroke="#000000" stroke-width="1.60" stroke-opacity=".8"/><rect x="1321.7" y="112.3" width="123.3" height="8.7" rx="4.3" fill="#000000" fill-opacity=".8"/><rect x="1326.7" y="210.0" width="13.3" height="13.3" fill="#000000" fill-opacity=".85"/><rect x="1355.0" y="179.0" width="90.0" height="8.7" rx="4.3" fill="#000000" fill-opacity=".8"/><rect x="1355.0" y="212.3" width="123.3" height="8.7" rx="4.3" fill="#000000" fill-opacity=".8"/><circle cx="1400.0" cy="83.3" r="6.7" fill="#000000" fill-opacity=".85"/><rect x="1388.3" y="179.0" width="123.3" height="8.7" rx="4.3" fill="#000000" fill-opacity=".8"/><circle cx="1400.0" cy="216.7" r="6.7" fill="#000000" fill-opacity=".85"/><circle cx="1400.0" cy="250.0" r="9.3" fill="none" stroke="#000000" stroke-width="1.60" stroke-opacity=".8"/><rect x="1421.7" y="45.7" width="123.3" height="8.7" rx="4.3" fill="#000000" fill-opacity=".8"/><rect x="1421.7" y="112.3" width="90.0" height="8.7" rx="4.3" fill="#000000" fill-opacity=".8"/><circle cx="1433.3" cy="216.7" r="6.7" fill="#000000" fill-opacity=".85"/><circle cx="1433.3" cy="283.3" r="6.7" fill="#000000" fill-opacity=".85"/><rect x="1455.0" y="145.7" width="90.0" height="8.7" rx="4.3" fill="#000000" fill-opacity=".8"/><line x1="1466.7" y1="216.7" x2="1520.0" y2="283.3" stroke="#000000" stroke-width="2.56" stroke-linecap="round" stroke-opacity=".8"/><circle cx="1500.0" cy="16.7" r="6.7" fill="#000000" fill-opacity=".85"/><rect x="1493.3" y="210.0" width="13.3" height="13.3" fill="#000000" fill-opacity=".85"/><rect x="1488.3" y="279.0" width="90.0" height="8.7" rx="4.3" fill="#000000" fill-opacity=".8"/><circle cx="1533.3" cy="83.3" r="6.7" fill="#000000" fill-opacity=".85"/><circle cx="1533.3" cy="116.7" r="6.7" fill="#000000" fill-opacity=".85"/><line x1="1533.3" y1="283.3" x2="1586.7" y2="216.7" stroke="#000000" stroke-width="2.56" stroke-linecap="round" stroke-opacity=".8"/><rect x="1555.0" y="45.7" width="56.7" height="8.7" rx="4.3" fill="#000000" fill-opacity=".8"/><circle cx="1566.7" cy="150.0" r="9.3" fill="none" stroke="#000000" stroke-width="1.60" stroke-opacity=".8"/><line x1="1566.7" y1="283.3" x2="1620.0" y2="250.0" stroke="#000000" stroke-width="2.56" stroke-linecap="round" stroke-opacity=".8"/><path d="M166.7,147.3 L212.1,138.6 L258.4,142.6 L302.4,154.9 L346.5,166.9 L392.3,173.8 L437.8,182.2 L483.5,189.5 L529.2,196.9 L574.9,204.3 L620.7,211.5 L666.5,218.4 L712.5,224.6 L758.9,228.4 L805.4,225.5 L845.4,206.6" fill="none" stroke="#000000" stroke-width="1.76" stroke-linejoin="round" stroke-opacity=".95"/><circle cx="166.7" cy="147.3" r="2.7" fill="#000000"/><circle cx="302.4" cy="154.9" r="2.7" fill="#000000"/><circle cx="437.8" cy="182.2" r="2.7" fill="#000000"/><circle cx="574.9" cy="204.3" r="2.7" fill="#000000"/><circle cx="712.5" cy="224.6" r="2.7" fill="#000000"/><circle cx="845.4" cy="206.6" r="2.7" fill="#000000"/><path d="M78.0,86.9 L75.2,50.3 L68.1,14.0 L111.6,0.9" fill="none" stroke="#000000" stroke-width="1.76" stroke-linejoin="round" stroke-opacity=".95"/><circle cx="78.0" cy="86.9" r="2.7" fill="#000000"/><circle cx="111.6" cy="0.9" r="2.7" fill="#000000"/><path d="M226.3,218.0 L237.8,182.4 L254.8,148.3 L300.6,155.5 L345.2,166.3 L390.8,173.8 L436.4,181.9 L482.1,189.2 L527.8,196.7 L573.5,204.0 L619.2,211.3 L665.1,218.2 L711.0,224.5 L757.4,228.4 L804.0,225.9" fill="none" stroke="#000000" stroke-width="1.76" stroke-linejoin="round" stroke-opacity=".95"/><circle cx="226.3" cy="218.0" r="2.7" fill="#000000"/><circle cx="300.6" cy="155.5" r="2.7" fill="#000000"/><circle cx="436.4" cy="181.9" r="2.7" fill="#000000"/><circle cx="573.5" cy="204.0" r="2.7" fill="#000000"/><circle cx="711.0" cy="224.5" r="2.7" fill="#000000"/><path d="M265.2,82.7 L286.0,49.8 L314.5,20.8 L357.0,35.9 L403.2,41.0 L448.4,50.2 L494.2,57.1 L539.9,64.5 L585.6,71.9 L631.4,79.1 L677.2,85.9 L723.3,91.7 L769.9,94.4 L815.9,88.6 L850.8,64.2 L859.4,28.2 L903.6,16.4 L949.6,10.5 L995.3,2.9" fill="none" stroke="#000000" stroke-width="1.76" stroke-linejoin="round" stroke-opacity=".95"/><circle cx="265.2" cy="82.7" r="2.7" fill="#000000"/><circle cx="357.0" cy="35.9" r="2.7" fill="#000000"/><circle cx="494.2" cy="57.1" r="2.7" fill="#000000"/><circle cx="631.4" cy="79.1" r="2.7" fill="#000000"/><circle cx="769.9" cy="94.4" r="2.7" fill="#000000"/><circle cx="859.4" cy="28.2" r="2.7" fill="#000000"/><circle cx="995.3" cy="2.9" r="2.7" fill="#000000"/><path d="M136.7,197.3 L119.7,163.2 L148.7,134.4 L194.9,129.7 L241.6,130.6 L286.3,141.1 L325.8,160.7 L370.5,171.2 L416.3,178.0 L461.8,186.1 L507.6,193.4 L553.3,200.8 L599.0,208.1 L644.8,215.2 L690.7,221.9 L736.9,227.1" fill="none" stroke="#000000" stroke-width="1.76" stroke-linejoin="round" stroke-opacity=".95"/><circle cx="136.7" cy="197.3" r="2.7" fill="#000000"/><circle cx="194.9" cy="129.7" r="2.7" fill="#000000"/><circle cx="325.8" cy="160.7" r="2.7" fill="#000000"/><circle cx="461.8" cy="186.1" r="2.7" fill="#000000"/><circle cx="599.0" cy="208.1" r="2.7" fill="#000000"/><circle cx="736.9" cy="227.1" r="2.7" fill="#000000"/><path d="M188.1,151.9 L232.9,141.6 L278.7,148.7 L322.5,161.4 L367.9,170.1 L413.5,177.9 L459.1,185.5 L504.8,193.0 L550.5,200.4 L596.2,207.6 L642.0,214.8 L687.9,221.5 L734.0,226.9 L780.7,228.4 L826.0,219.7 L855.0,191.0 L866.5,155.4 L912.9,151.4" fill="none" stroke="#000000" stroke-width="1.76" stroke-linejoin="round" stroke-opacity=".95"/><circle cx="188.1" cy="151.9" r="2.7" fill="#000000"/><circle cx="322.5" cy="161.4" r="2.7" fill="#000000"/><circle cx="459.1" cy="185.5" r="2.7" fill="#000000"/><circle cx="596.2" cy="207.6" r="2.7" fill="#000000"/><circle cx="734.0" cy="226.9" r="2.7" fill="#000000"/><circle cx="855.0" cy="191.0" r="2.7" fill="#000000"/></g></svg></div>
 <script>/* the lift, in four steps: while the title travels, the accent and the ink hold (bs-holding); once it
    has landed the ground eases to the theme and the ink holds (bs-lifting) until the ground passes mid-light
    (--bs-swap); then text takes the theme's full color while quieter grays wait (bs-settling) until the ground
@@ -1142,7 +1142,7 @@ html body{background-color:transparent}
 <!-- CHAMY·XYZ chrome, foot: the word always goes to the root. -->
 <a class="brand-home" href="https://chamy.xyz" target="_blank" rel="noopener" aria-label="CHAMY·XYZ home"><svg class="brand-word" viewBox="462 836 996 132" aria-hidden="true" focusable="false"><path d="M527.95,939.9c15.92,0,28.23-9.35,32.66-24.62h23.14c-5.41,28.06-27.57,46.6-55.79,46.6-33.81,0-59.24-25.76-59.24-59.73s25.44-60.06,59.24-60.06c27.73,0,49.72,18.05,55.3,44.96h-22.97c-4.92-14.28-17.07-22.97-32.33-22.97-20.51,0-35.94,16.41-35.94,38.07s15.42,37.74,35.94,37.74h0Z"/><path d="M619.18,844.55v45.13h46.11v-45.13h22.97v114.87h-22.97v-48.41h-46.11v48.41h-22.97v-114.87h22.97Z"/><path d="M697.94,959.42l33.15-114.87h45.95l34.3,114.87h-24.78l-6.4-22.97h-51.69l-6.24,22.97h-24.29ZM774.58,916.43l-14.28-51.69h-12.14l-14.11,51.69h40.53Z"/><path d="M819.54,959.42v-114.87h53.17l25.93,95.18h11.16l28.88-95.18h50.22v114.87h-23.3v-92.23h-11.32l-27.9,91.57h-44.47l-24.61-91.57h-14.28v92.23h-23.47,0Z"/><path d="M997.74,844.55h24.45l27.9,47.76,27.9-47.76h24.45l-40.7,68.6v24.94h22.81v21.33h-69.09v-21.33h22.65v-25.11l-40.37-68.43Z"/><path d="M1126.72,890.5c6.4,0,11.98,5.58,11.98,11.98s-5.58,12.14-11.98,12.14-12.14-5.58-12.14-12.14,5.58-11.98,12.14-11.98Z"/><path d="M1185.13,899.2l-33.97-54.65h25.93l21.99,36.92,22.15-36.92h25.11l-33.48,55.47,36.43,59.41h-25.76l-24.29-41.03-24.62,41.03h-25.76l36.27-60.22h0Z"/><path d="M1253.07,844.55h24.45l27.9,47.76,27.9-47.76h24.45l-40.7,68.6v24.94h22.81v21.33h-69.09v-21.33h22.65v-25.11l-40.37-68.43Z"/><path d="M1429.3,872.12v-6.24h-61.7v-21.33h81.72v36.27l-63.84,51.04v6.23h65.8v21.33h-86.32v-35.45l64.33-51.85h0Z"/></svg></a>
   <p>Codex document · Digital Broadside No. 06 · 20 November 2026 · Dimitry Saïd Chamy</p>
-  <p class="codex-ver">Codex 1.3.1 · score-in-two-hours v4</p>
+  <p class="codex-ver">Codex 1.3.1 · score-in-two-hours v5</p>
 <style>#foot .codex-ver{font:500 var(--t-label)/1.3 var(--brand-mono);letter-spacing:.08em;color:var(--brand-quiet)}</style>
 </footer>
 </main>
